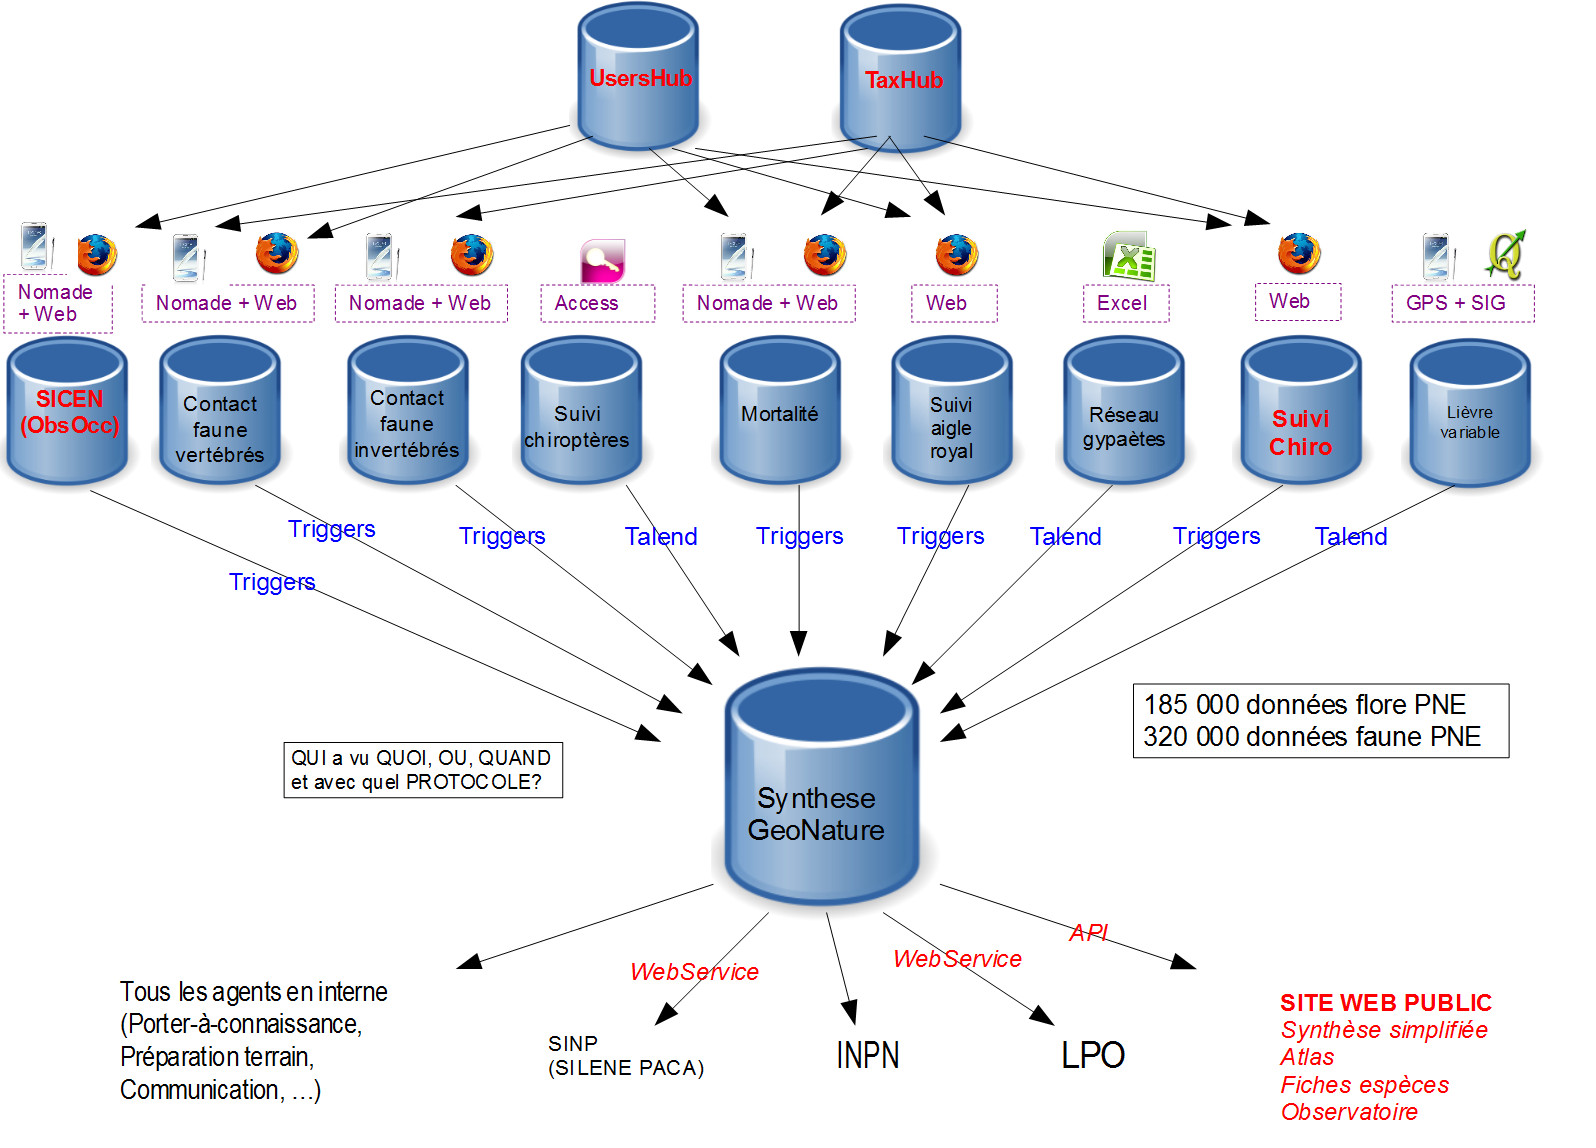
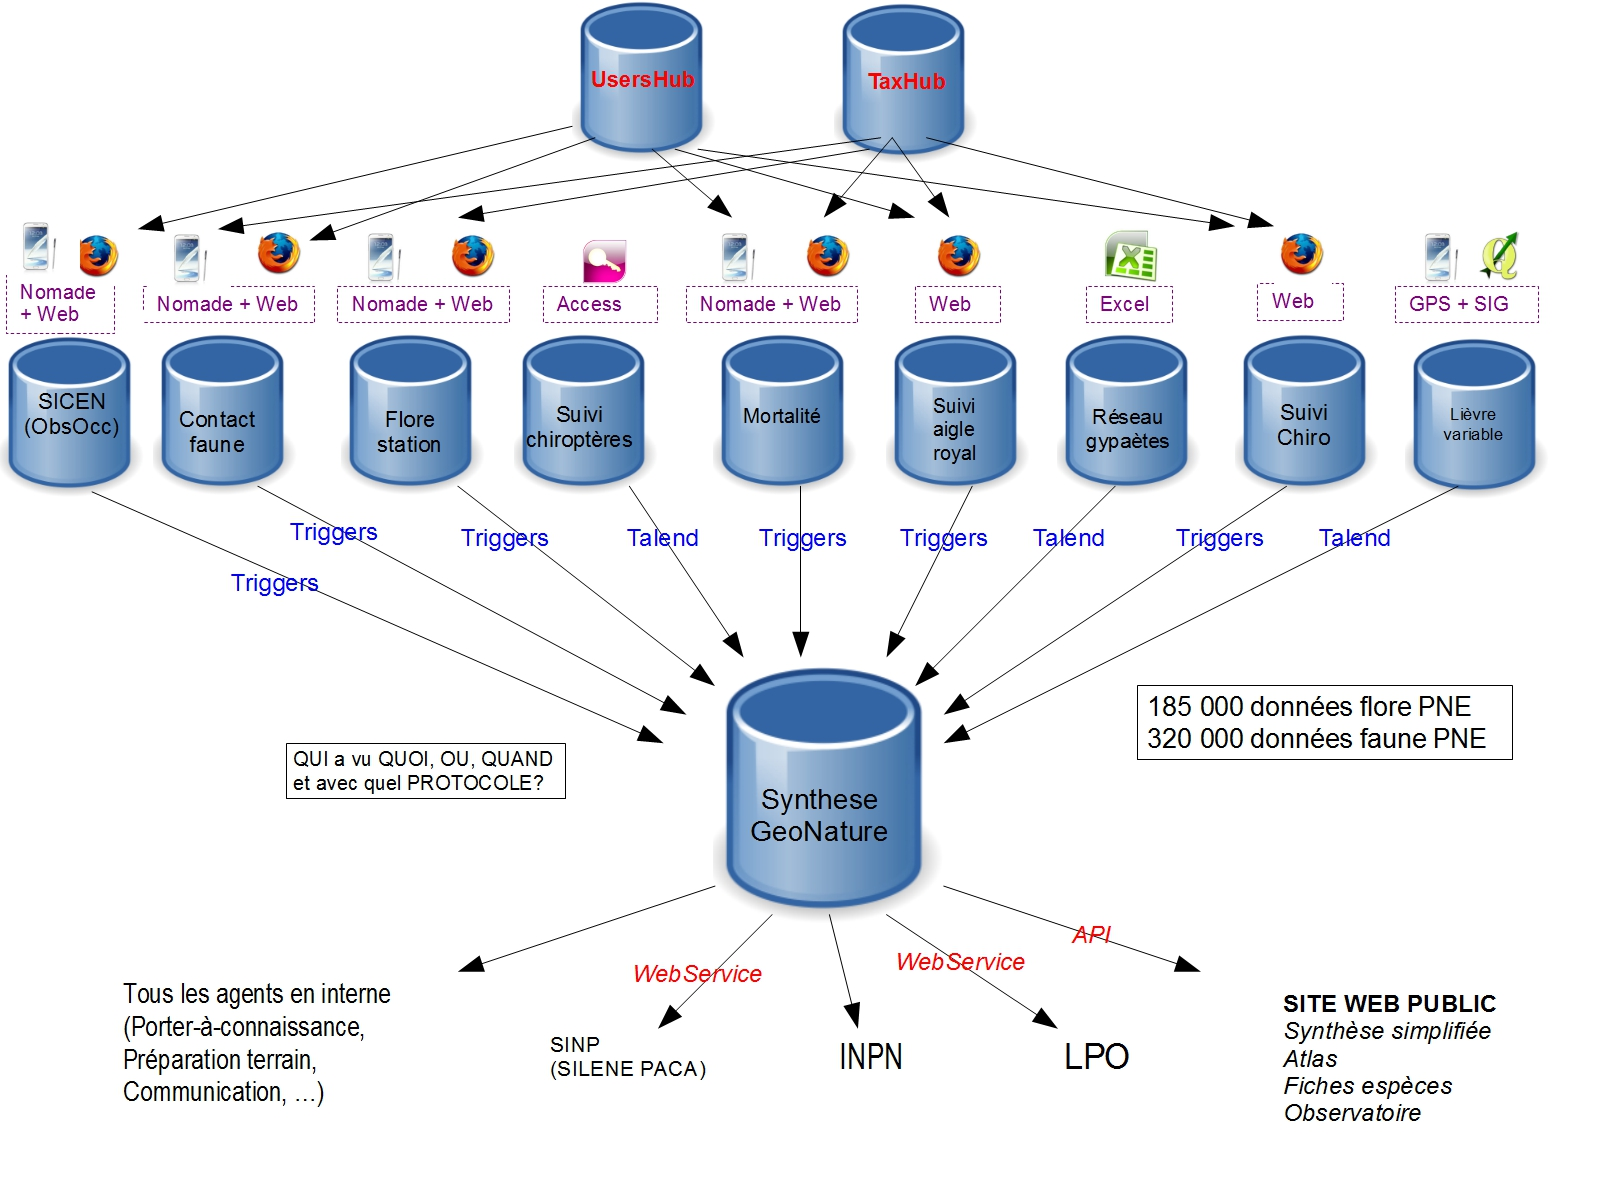
Complement de la presentation generale

diff --git a/README.rst b/README.rst
@@ -1,7 +1,7 @@
 GeoNature
 =========
 
-Application de synthèse des observations faune et flore.
+Application de saisie et de synthèse des observations faune et flore.
 
 GeoNature est une application permettant de regrouper l'ensemble des données provenant des **protocoles Faune et Flore**, de saisir les protocoles de **contact occasionnel faune** et **Flore station** et de consulter l'ensemble de ces données dans une application de **synthèse**.
 
@@ -23,6 +23,17 @@ Technologies
 
 Présentation
 ------------
+
+- GeoNature comprend une application WEB de synthèse des observations 
+- GeoNature comprend aussi les formulaires de saisie des protocoles ContactFaune (vertébrés, invertébrés et mortalité), Flore station et Bryophytes. Ces protocoles peuvent être activés ou désactivés. Une discussion est aussi en cours pour y intégrer un Contact Flore sur le modèle de la Faune : https://github.com/PnEcrins/GeoNature/issues/59. Les protocoles de contact intègrent une orientation de la saisie en fonction de 3 critères combinés (localisation x date de la dernière observation x patrimonialité)
+- GeoNature-mobile permet de saisir 4 de ces protocoles sur appareil mobile Android. https://github.com/PnEcrins/GeoNature-mobile, https://github.com/PnEcrins/GeoNature-mobile-sync, https://github.com/PnEcrins/GeoNature-mobile-webapi
+- Chaque protocole dispose de son propre schéma dans la base de données de GeoNature. Il est possible d'y ajouter d'autres schémas pour ses propres protocoles ou l'intégration des données des partenaires.
+- Il est aussi possible d'alimenter la synthèse de GeoNature depuis des protocoles qui ont leur propre base de données (SICEN, Suivi_chiro...) par des triggers, des jobs Talend ou depuis version 1.6.0 par une API REST.
+- Des webservices permettent de diffuser les données de la synthèse à des partenaires
+- Enfin nous prévoyons un stage l'année prochaine pour le développement d'un atlas public basé sur les données de la synthèse de GeoNature. 
+
+.. image :: docs/images/schema-geonature-environnement.jpg
+
 
 **Principe général** : Un protocole = Un outil = Une BDD + Une BDD et une application de SYNTHESE regroupant les données des différents protocoles sur la base des champs communs à tous les protocoles (QUI a vu QUOI, OU et QUAND).
 
